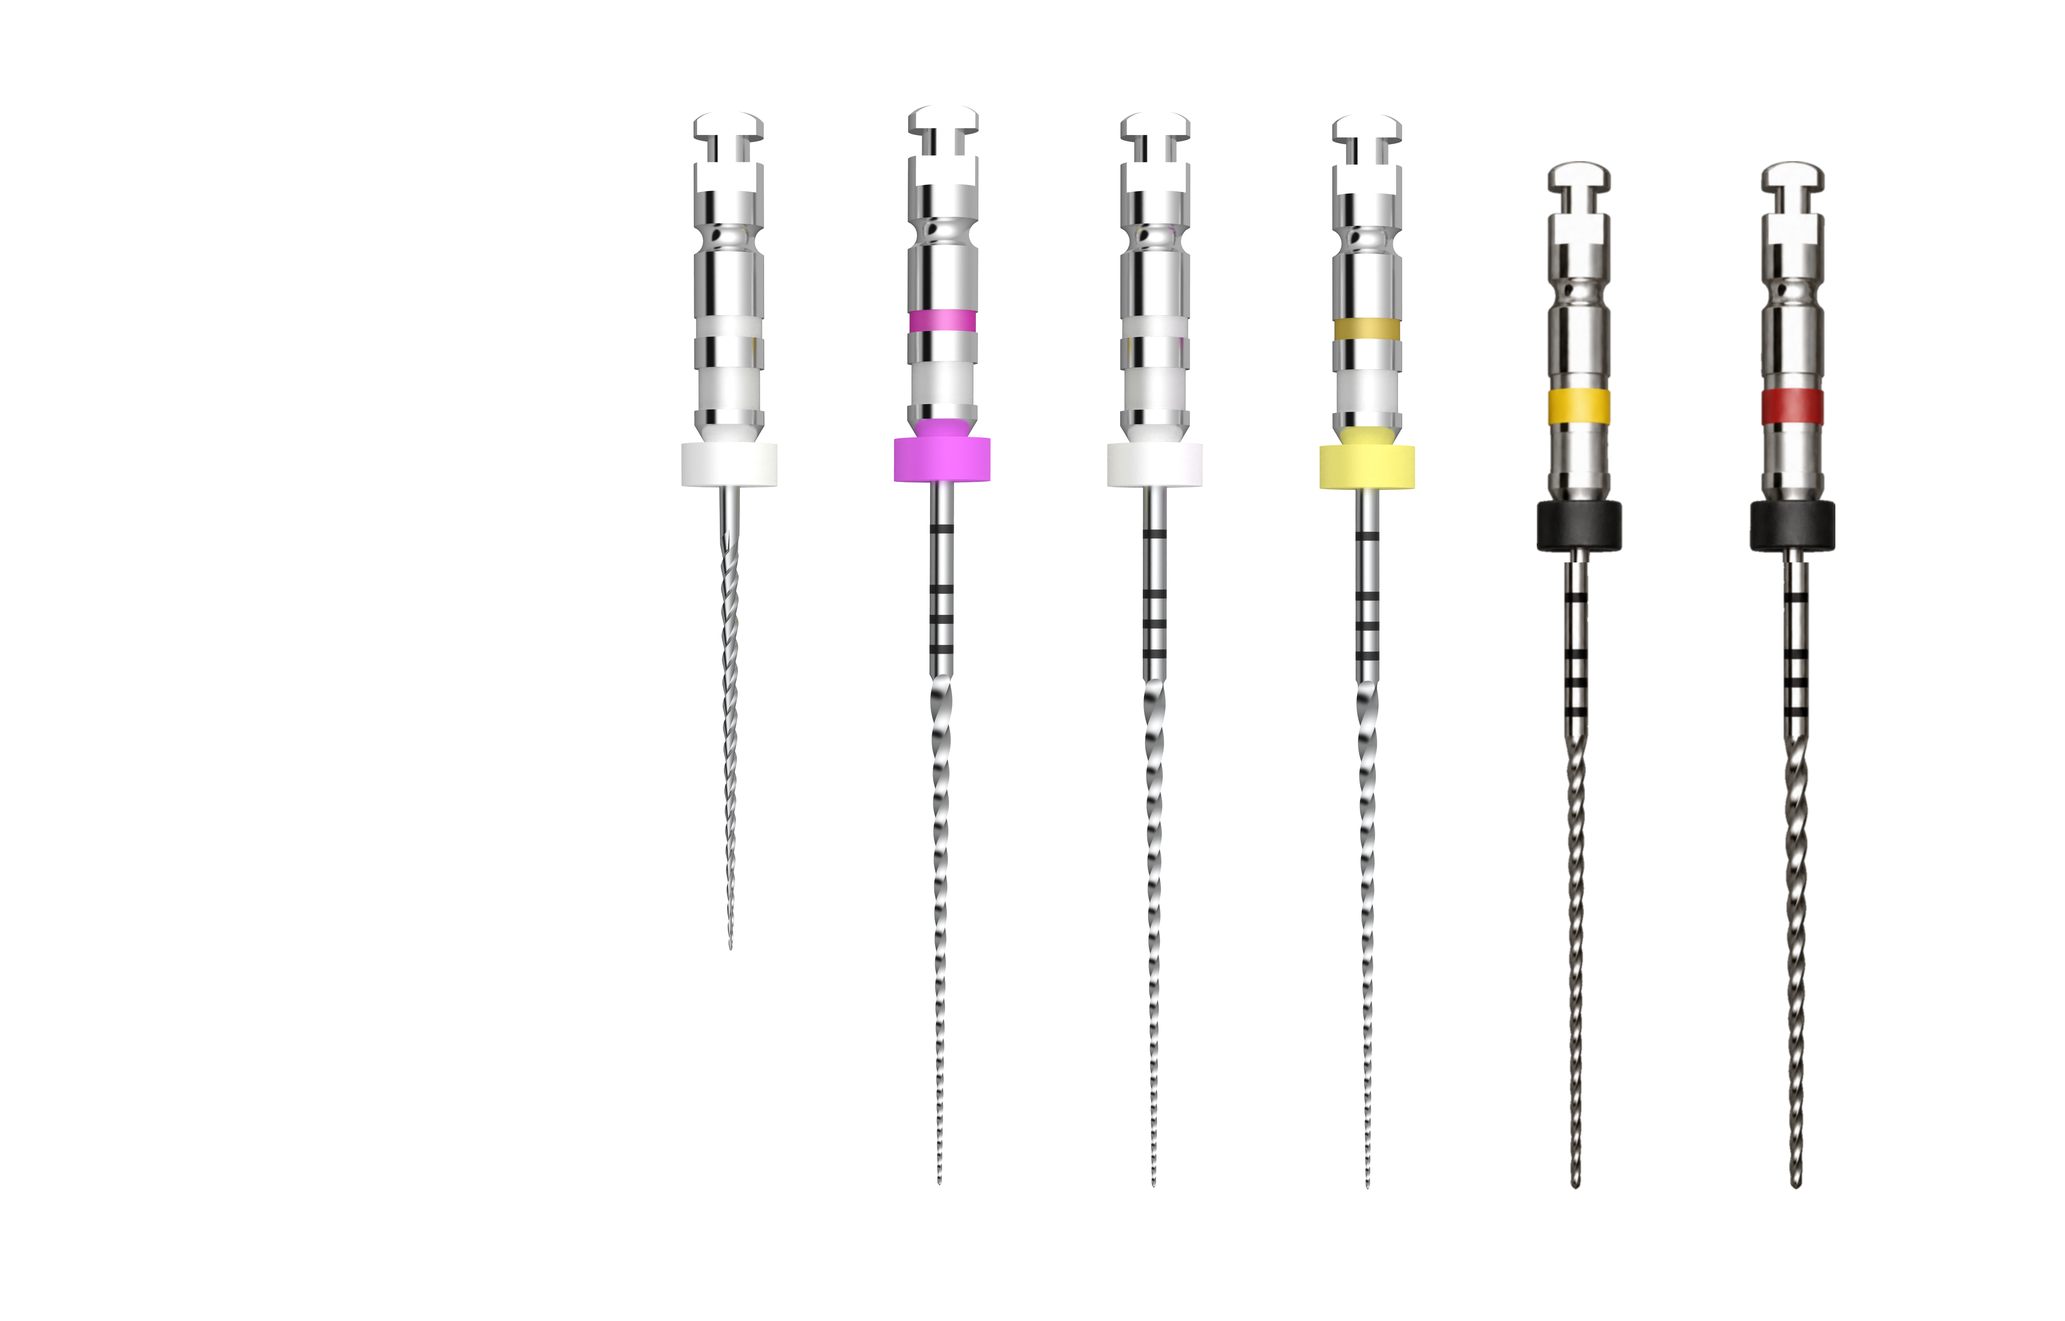
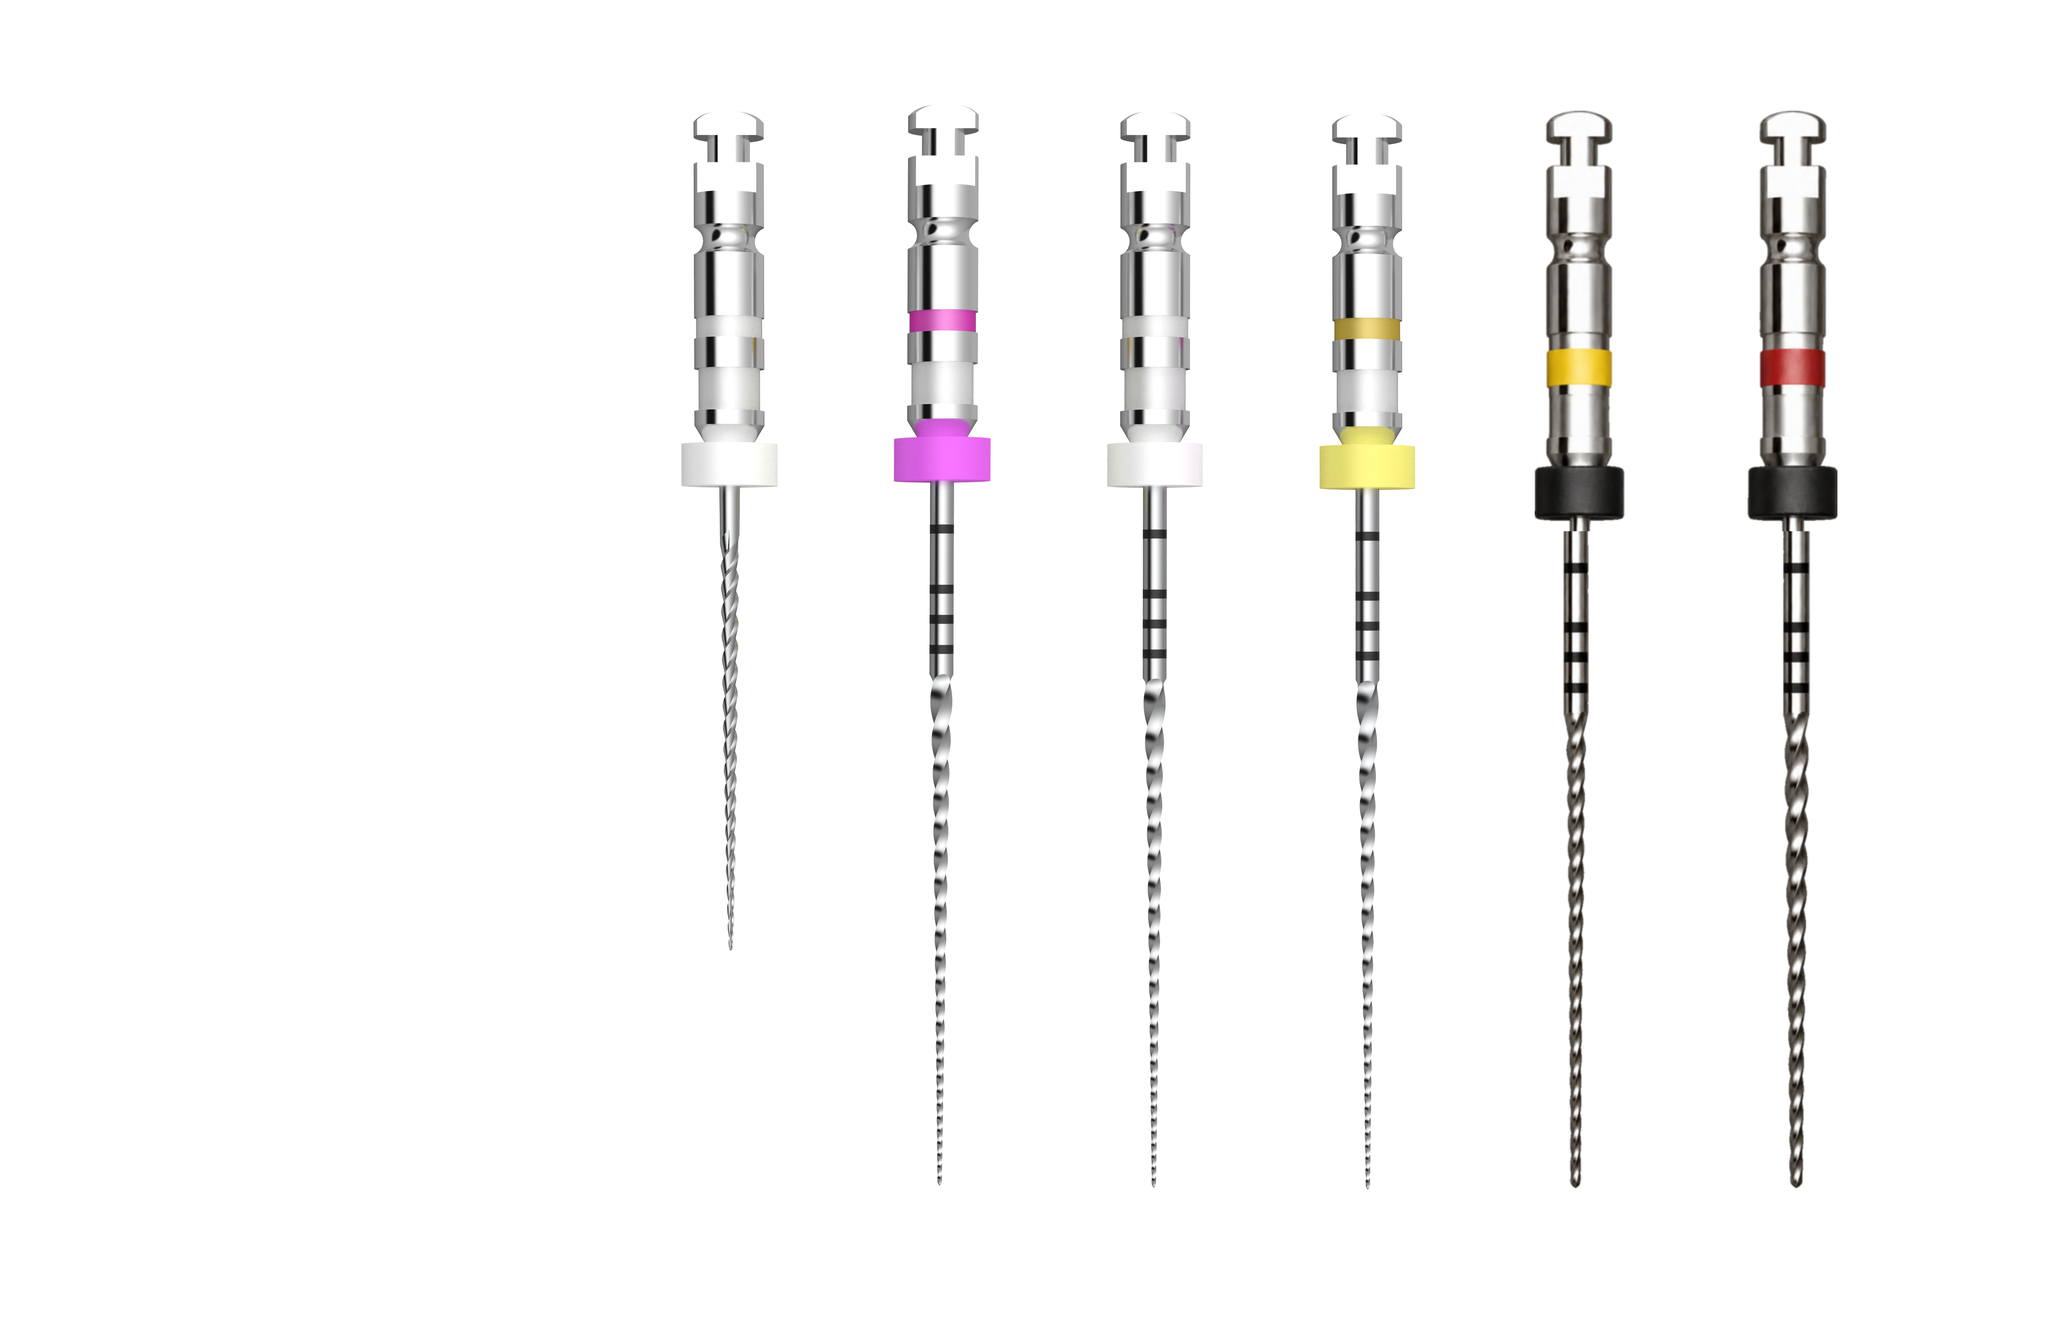
Match Micro-Path file heights

Changed region(s): [[0.8424, 0.0928, 0.9048, 0.8665], [0.7176, 0.0928, 0.8112, 0.8665]]

diff --git a/reviewed-site/products/micro-path/index.html b/reviewed-site/products/micro-path/index.html
@@ -1,4 +1,4 @@
-<!DOCTYPE html><html lang="en"><head><meta charset="UTF-8"><meta name="viewport" content="width=device-width, initial-scale=1.0"><meta name="description" content="Micro-Path™ Files are rotary glide path files for endodontics, using Transform Metal Technology to support controlled progression to working length before shaping."><link rel="canonical" href="/products/micro-path/"><meta property="og:site_name" content="EndoTech NZ"><meta property="og:type" content="website"><meta property="og:title" content="Micro-Path™ Files | Rotary Glide Path Files for Endodontics"><meta property="og:description" content="Micro-Path™ Files are rotary glide path files for endodontics, using Transform Metal Technology to support controlled progression to working length before shaping."><meta property="og:url" content="https://endotechnz.com/products/micro-path/"><meta property="og:image" content="https://endotechnz.com/assets/micropath-files-six.png?v=six-20261001"><meta name="twitter:card" content="summary_large_image"><meta name="twitter:title" content="Micro-Path™ Files | Rotary Glide Path Files for Endodontics"><meta name="twitter:description" content="Micro-Path™ Files are rotary glide path files for endodontics, using Transform Metal Technology to support controlled progression to working length before shaping."><meta name="twitter:image" content="https://endotechnz.com/assets/micropath-files-six.png?v=six-20261001"><meta name="google-site-verification" content="66rRw6fVQeHsCNpjSjIFm6tde0bpo4CXXigS2n2Vklg"><link rel="icon" type="image/jpeg" href="https://endotechnz.com/brand/endotech-nz-logo-2026.jpg"><link rel="apple-touch-icon" href="https://endotechnz.com/brand/endotech-nz-logo-2026.jpg"><link rel="manifest" href="https://endotechnz.com/site.webmanifest"><link rel="preconnect" href="https://fonts.googleapis.com/"><link rel="preconnect" href="https://fonts.gstatic.com/" crossorigin=""><link href="https://fonts.googleapis.com/css2?family=Sora:wght@400;500;600;700&amp;family=Nunito+Sans:ital,wght@0,400;0,500;0,600;0,700;1,400&amp;display=swap" rel="stylesheet"><script>
+<!DOCTYPE html><html lang="en"><head><meta charset="UTF-8"><meta name="viewport" content="width=device-width, initial-scale=1.0"><meta name="description" content="Micro-Path™ Files are rotary glide path files for endodontics, using Transform Metal Technology to support controlled progression to working length before shaping."><link rel="canonical" href="/products/micro-path/"><meta property="og:site_name" content="EndoTech NZ"><meta property="og:type" content="website"><meta property="og:title" content="Micro-Path™ Files | Rotary Glide Path Files for Endodontics"><meta property="og:description" content="Micro-Path™ Files are rotary glide path files for endodontics, using Transform Metal Technology to support controlled progression to working length before shaping."><meta property="og:url" content="https://endotechnz.com/products/micro-path/"><meta property="og:image" content="https://endotechnz.com/assets/micropath-files-six.png?v=six-aligned-20261001"><meta name="twitter:card" content="summary_large_image"><meta name="twitter:title" content="Micro-Path™ Files | Rotary Glide Path Files for Endodontics"><meta name="twitter:description" content="Micro-Path™ Files are rotary glide path files for endodontics, using Transform Metal Technology to support controlled progression to working length before shaping."><meta name="twitter:image" content="https://endotechnz.com/assets/micropath-files-six.png?v=six-aligned-20261001"><meta name="google-site-verification" content="66rRw6fVQeHsCNpjSjIFm6tde0bpo4CXXigS2n2Vklg"><link rel="icon" type="image/jpeg" href="https://endotechnz.com/brand/endotech-nz-logo-2026.jpg"><link rel="apple-touch-icon" href="https://endotechnz.com/brand/endotech-nz-logo-2026.jpg"><link rel="manifest" href="https://endotechnz.com/site.webmanifest"><link rel="preconnect" href="https://fonts.googleapis.com/"><link rel="preconnect" href="https://fonts.gstatic.com/" crossorigin=""><link href="https://fonts.googleapis.com/css2?family=Sora:wght@400;500;600;700&amp;family=Nunito+Sans:ital,wght@0,400;0,500;0,600;0,700;1,400&amp;display=swap" rel="stylesheet"><script>
       (function() {
         const stored = localStorage.getItem('theme');
         if (stored === 'dark' || (!stored && window.matchMedia('(prefers-color-scheme: dark)').matches)) {
@@ -18,7 +18,7 @@
           t=l.createElement(r);t.async=1;t.src="https://www.clarity.ms/tag/"+i;
           y=l.getElementsByTagName(r)[0];y.parentNode.insertBefore(t,y);
         })(window, document, "clarity", "script", clarityProjectId);
-      })();</script><title>Micro-Path™ Files | Rotary Glide Path Files for Endodontics</title><script type="application/ld+json">{"@context":"https://schema.org","@type":"Organization","name":"EndoTech NZ","url":"https://endotechnz.com/","email":"mailto:Steveshepherdnz@gmail.com"}</script><script type="application/ld+json">{"@context":"https://schema.org","@type":"Product","name":"Micro-Path™ Files","description":"Rotary glide path files using Transform Metal Technology to create a controlled path to working length before shaping, with confirmed 15/.03 configurations plus an MB2 option.","brand":{"@type":"Brand","name":"EndoTech NZ"},"category":"Endodontic glide path files","image":["https://endotechnz.com/assets/micropath-files-six.png?v=six-20261001"],"url":"https://endotechnz.com/products/micro-path/","additionalProperty":[{"@type":"PropertyValue","name":"System type","value":"Rotary glide path files"},{"@type":"PropertyValue","name":"Technology","value":"Transform Metal Technology"},{"@type":"PropertyValue","name":"Standard size","value":"15/.03"},{"@type":"PropertyValue","name":"Lengths","value":"21 mm, 25 mm, 29 mm"},{"@type":"PropertyValue","name":"MB2 option","value":"15/.05 17 mm"}]}</script><link rel="stylesheet" href="https://endotechnz.com/_astro/company.DWUKpKXr.css">
+      })();</script><title>Micro-Path™ Files | Rotary Glide Path Files for Endodontics</title><script type="application/ld+json">{"@context":"https://schema.org","@type":"Organization","name":"EndoTech NZ","url":"https://endotechnz.com/","email":"mailto:Steveshepherdnz@gmail.com"}</script><script type="application/ld+json">{"@context":"https://schema.org","@type":"Product","name":"Micro-Path™ Files","description":"Rotary glide path files using Transform Metal Technology to create a controlled path to working length before shaping, with confirmed 15/.03 configurations plus an MB2 option.","brand":{"@type":"Brand","name":"EndoTech NZ"},"category":"Endodontic glide path files","image":["https://endotechnz.com/assets/micropath-files-six.png?v=six-aligned-20261001"],"url":"https://endotechnz.com/products/micro-path/","additionalProperty":[{"@type":"PropertyValue","name":"System type","value":"Rotary glide path files"},{"@type":"PropertyValue","name":"Technology","value":"Transform Metal Technology"},{"@type":"PropertyValue","name":"Standard size","value":"15/.03"},{"@type":"PropertyValue","name":"Lengths","value":"21 mm, 25 mm, 29 mm"},{"@type":"PropertyValue","name":"MB2 option","value":"15/.05 17 mm"}]}</script><link rel="stylesheet" href="https://endotechnz.com/_astro/company.DWUKpKXr.css">
 <style>.endotech-brand-logo:where(.astro-anndpidy){display:block;position:relative;flex:none;width:104px;height:98px;overflow:hidden;margin-block:4px;background:#fff}.endotech-brand-logo:where(.astro-anndpidy)>img:where(.astro-anndpidy){position:absolute;display:block;width:125%;max-width:none;height:auto;left:-12.5%;top:-17%;margin:0}.endotech-brand-logo:where(.astro-anndpidy).is-footer{width:180px;height:170px}
 </style>
 <link rel="stylesheet" href="https://endotechnz.com/_astro/company.BvOEwT-P.css">
@@ -32,7 +32,7 @@
 </div></header>
  <main class="product-site-main" data-accent="teal">  <main class="microPath-stitch-page astro-3pa52dmf"> <section class="microPath-hero astro-3pa52dmf clean-product-hero" aria-labelledby="microPath-hero-title"> <div class="microPath-hero-copy astro-3pa52dmf clean-product-copy"> <div class="microPath-rotary-glide-reveal-mask astro-3pa52dmf"> <p class="microPath-rotary-glide-reveal-text js-microPath-rotary-glide-reveal astro-3pa52dmf">Rotary glide path system</p> </div> <h1 id="microPath-hero-title" class="astro-3pa52dmf">Micro-Path™</h1> <p class="microPath-hero-lede astro-3pa52dmf">
 Controlled rotary glide path preparation before shaping begins, with a simple sequence designed to lead cleanly into Transform&nbsp;S™.
-</p> </div> <figure data-micropath-hero-visual="" class="microPath-hero-visual microPath-hero-visual--pre-reveal astro-3pa52dmf clean-product-visual" style="transform: translateZ(0) scale(0.9);"> <img class="microPath-hero-image astro-3pa52dmf" src="/assets/micropath-files-six.png?v=six-20261001" width="5000" height="3199" loading="eager" decoding="sync" fetchpriority="high" alt="Micro-Path™ files displayed as a rotary glide path system"> </figure> <div class="microPath-hero-actions astro-3pa52dmf clean-product-actions"> <a class="microPath-button primary astro-3pa52dmf nz-action nz-action-primary" href="/flexion/">Explore FlexION</a> <a class="microPath-button secondary astro-3pa52dmf nz-action nz-action-secondary" href="/technique/motor-settings/">Motor Settings</a> </div> <div class="microPath-hero-meta astro-3pa52dmf" aria-label="Micro-Path™ key range"> <span class="microPath-hero-size microPath-hero-size--13 astro-3pa52dmf">13/.03</span> <span class="microPath-hero-size microPath-hero-size--15 astro-3pa52dmf">15/.03</span> <span class="microPath-hero-size microPath-hero-size--17 astro-3pa52dmf">17/.03</span> <div class="microPath-hero-token"><span class="microPath-hero-size microPath-hero-size--mb2 astro-3pa52dmf">MB2 15/.05</span><small class="microPath-hero-meta-note">Mini Magic<br>File</small></div> <div class="microPath-hero-token microPath-hero-token--paired"><div class="microPath-hero-size-pair"><span class="microPath-hero-size microPath-hero-size--20 astro-3pa52dmf">20/.03</span><span class="microPath-hero-size microPath-hero-size--25 astro-3pa52dmf">25/.03</span></div><small class="microPath-hero-meta-note">Compatible with V-Taper</small></div> </div> </section> <div id="micropath-media" class="nz-micropath-media">
+</p> </div> <figure data-micropath-hero-visual="" class="microPath-hero-visual microPath-hero-visual--pre-reveal astro-3pa52dmf clean-product-visual" style="transform: translateZ(0) scale(0.9);"> <img class="microPath-hero-image astro-3pa52dmf" src="/assets/micropath-files-six.png?v=six-aligned-20261001" width="5000" height="3199" loading="eager" decoding="sync" fetchpriority="high" alt="Micro-Path™ files displayed as a rotary glide path system"> </figure> <div class="microPath-hero-actions astro-3pa52dmf clean-product-actions"> <a class="microPath-button primary astro-3pa52dmf nz-action nz-action-primary" href="/flexion/">Explore FlexION</a> <a class="microPath-button secondary astro-3pa52dmf nz-action nz-action-secondary" href="/technique/motor-settings/">Motor Settings</a> </div> <div class="microPath-hero-meta astro-3pa52dmf" aria-label="Micro-Path™ key range"> <span class="microPath-hero-size microPath-hero-size--13 astro-3pa52dmf">13/.03</span> <span class="microPath-hero-size microPath-hero-size--15 astro-3pa52dmf">15/.03</span> <span class="microPath-hero-size microPath-hero-size--17 astro-3pa52dmf">17/.03</span> <div class="microPath-hero-token"><span class="microPath-hero-size microPath-hero-size--mb2 astro-3pa52dmf">MB2 15/.05</span><small class="microPath-hero-meta-note">Mini Magic<br>File</small></div> <div class="microPath-hero-token microPath-hero-token--paired"><div class="microPath-hero-size-pair"><span class="microPath-hero-size microPath-hero-size--20 astro-3pa52dmf">20/.03</span><span class="microPath-hero-size microPath-hero-size--25 astro-3pa52dmf">25/.03</span></div><small class="microPath-hero-meta-note">Compatible with V-Taper</small></div> </div> </section> <div id="micropath-media" class="nz-micropath-media">
  <section aria-labelledby="micropath-film-title">
   <p class="media-eyebrow">Product film · 57 seconds</p>
   <h2 id="micropath-film-title">MicroPath, in motion.</h2>
@@ -55,7 +55,7 @@ Controlled rotary glide path preparation before shaping begins, with a simple se
 
 
 
- <section class="microPath-journey-section astro-3pa52dmf" aria-labelledby="microPath-journey-title"> <div class="microPath-journey-media astro-3pa52dmf"> <img src="/assets/micropath-files-six.png?v=six-20261001" width="5000" height="3199" alt="Micro-Path™ files shown as the access-to-shaping bridge" class="astro-3pa52dmf"> </div> <div class="microPath-journey-copy astro-3pa52dmf"> <p class="microPath-eyebrow astro-3pa52dmf">The clinical journey</p> <h2 id="microPath-journey-title" class="astro-3pa52dmf">Create Micropath before shaping.</h2> <div class="microPath-journey-steps astro-3pa52dmf"> <article class="astro-3pa52dmf"> <span class="astro-3pa52dmf">1</span> <div class="astro-3pa52dmf"> <h3 class="astro-3pa52dmf">Negotiate and confirm access</h3> <p class="astro-3pa52dmf">Establish coronal access and a readable path before the glide sequence begins so the shaping stage is not forced too early.</p> </div> </article><article class="astro-3pa52dmf"> <span class="astro-3pa52dmf">2</span> <div class="astro-3pa52dmf"> <h3 class="astro-3pa52dmf">Create the rotary glide path</h3> <p class="astro-3pa52dmf">Use the confirmed 15/.03 configurations to create a more controlled route to working length in routine and curved anatomy.</p> </div> </article><article class="astro-3pa52dmf"> <span class="astro-3pa52dmf">3</span> <div class="astro-3pa52dmf"> <h3 class="astro-3pa52dmf">Move into shaping with intent</h3> <p class="astro-3pa52dmf">Once the path is established, the clinician can transition into Transform&nbsp;S™ shaping with a cleaner, more reproducible handoff.</p> </div> </article> </div> </div> </section> <section id="product-range" class="microPath-range-section astro-3pa52dmf" aria-labelledby="microPath-range-title"> <div class="microPath-range-heading astro-3pa52dmf"> <p class="microPath-eyebrow astro-3pa52dmf">Product range</p> <h2 id="microPath-range-title" class="astro-3pa52dmf">Sizes, lengths, and part numbers.</h2> <p class="astro-3pa52dmf">
+ <section class="microPath-journey-section astro-3pa52dmf" aria-labelledby="microPath-journey-title"> <div class="microPath-journey-media astro-3pa52dmf"> <img src="/assets/micropath-files-six.png?v=six-aligned-20261001" width="5000" height="3199" alt="Micro-Path™ files shown as the access-to-shaping bridge" class="astro-3pa52dmf"> </div> <div class="microPath-journey-copy astro-3pa52dmf"> <p class="microPath-eyebrow astro-3pa52dmf">The clinical journey</p> <h2 id="microPath-journey-title" class="astro-3pa52dmf">Create Micropath before shaping.</h2> <div class="microPath-journey-steps astro-3pa52dmf"> <article class="astro-3pa52dmf"> <span class="astro-3pa52dmf">1</span> <div class="astro-3pa52dmf"> <h3 class="astro-3pa52dmf">Negotiate and confirm access</h3> <p class="astro-3pa52dmf">Establish coronal access and a readable path before the glide sequence begins so the shaping stage is not forced too early.</p> </div> </article><article class="astro-3pa52dmf"> <span class="astro-3pa52dmf">2</span> <div class="astro-3pa52dmf"> <h3 class="astro-3pa52dmf">Create the rotary glide path</h3> <p class="astro-3pa52dmf">Use the confirmed 15/.03 configurations to create a more controlled route to working length in routine and curved anatomy.</p> </div> </article><article class="astro-3pa52dmf"> <span class="astro-3pa52dmf">3</span> <div class="astro-3pa52dmf"> <h3 class="astro-3pa52dmf">Move into shaping with intent</h3> <p class="astro-3pa52dmf">Once the path is established, the clinician can transition into Transform&nbsp;S™ shaping with a cleaner, more reproducible handoff.</p> </div> </article> </div> </div> </section> <section id="product-range" class="microPath-range-section astro-3pa52dmf" aria-labelledby="microPath-range-title"> <div class="microPath-range-heading astro-3pa52dmf"> <p class="microPath-eyebrow astro-3pa52dmf">Product range</p> <h2 id="microPath-range-title" class="astro-3pa52dmf">Sizes, lengths, and part numbers.</h2> <p class="astro-3pa52dmf">
 The core Micro-Path™ range stays deliberately simple: 13/.03, 15/.03, and 17/.03 in 21 mm, 25 mm, and 29 mm lengths, plus a dedicated MB2 option.
 </p> </div> <div class="microPath-table-shell astro-3pa52dmf"> <table class="microPath-range-table astro-3pa52dmf"> <thead class="astro-3pa52dmf"> <tr class="astro-3pa52dmf"> <th class="astro-3pa52dmf">File</th> <th class="astro-3pa52dmf">21 mm</th> <th class="astro-3pa52dmf">25 mm</th> <th class="astro-3pa52dmf">29 mm</th> </tr> </thead> <tbody class="astro-3pa52dmf"> <tr class="astro-3pa52dmf"> <th class="astro-3pa52dmf">13/.03</th> <td class="astro-3pa52dmf">TSMP-130321RF</td> <td class="astro-3pa52dmf">TSMP-130325RF</td> <td class="astro-3pa52dmf">TSMP-130329RF</td> </tr><tr class="astro-3pa52dmf"> <th class="astro-3pa52dmf">15/.03</th> <td class="astro-3pa52dmf">TSMP-150321RF</td> <td class="astro-3pa52dmf">TSMP-150325RF</td> <td class="astro-3pa52dmf">TSMP-150329RF</td> </tr><tr class="astro-3pa52dmf"> <th class="astro-3pa52dmf">17/.03</th> <td class="astro-3pa52dmf">TSMP-170321RF</td> <td class="astro-3pa52dmf">TSMP-170325RF</td> <td class="astro-3pa52dmf">TSMP-170329RF</td> </tr> </tbody> </table> </div> <article id="mb2-file" class="microPath-mb2-card astro-3pa52dmf"> <div class="astro-3pa52dmf"> <p class="microPath-eyebrow astro-3pa52dmf">MB2 option</p> <h3 class="astro-3pa52dmf">15/.05 in 17 mm</h3> </div> <p class="astro-3pa52dmf">
 SKU <code class="astro-3pa52dmf">TSMP-150517RF</code> extends the glide path system into restricted-access cases where a shorter file format and more deliberate coronal headroom can matter.
